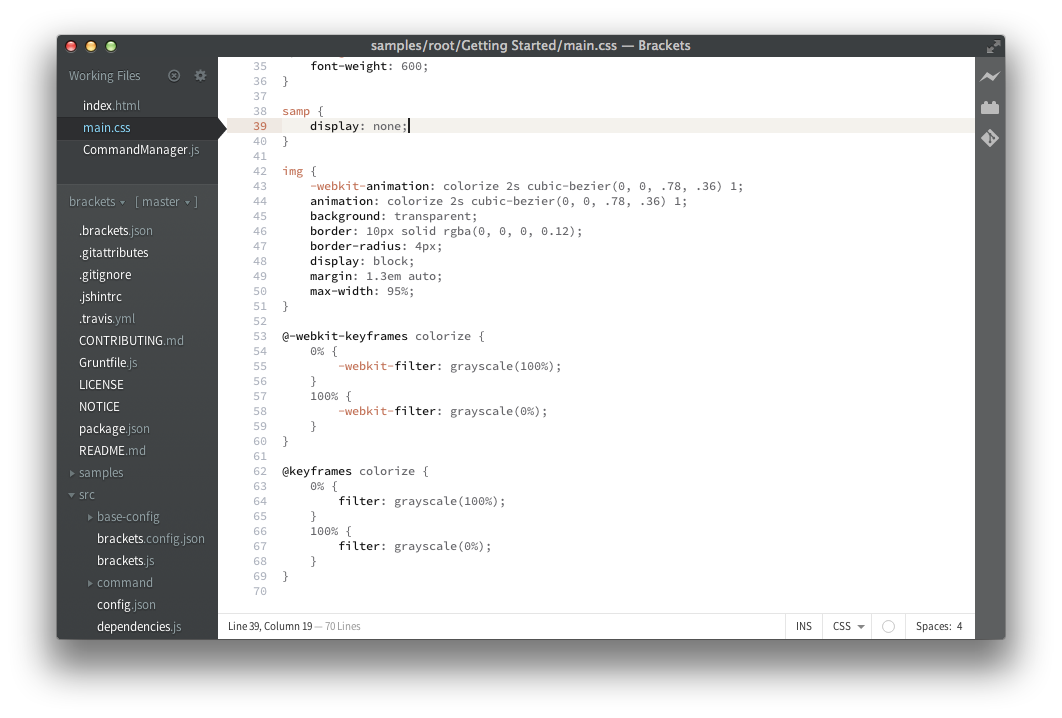
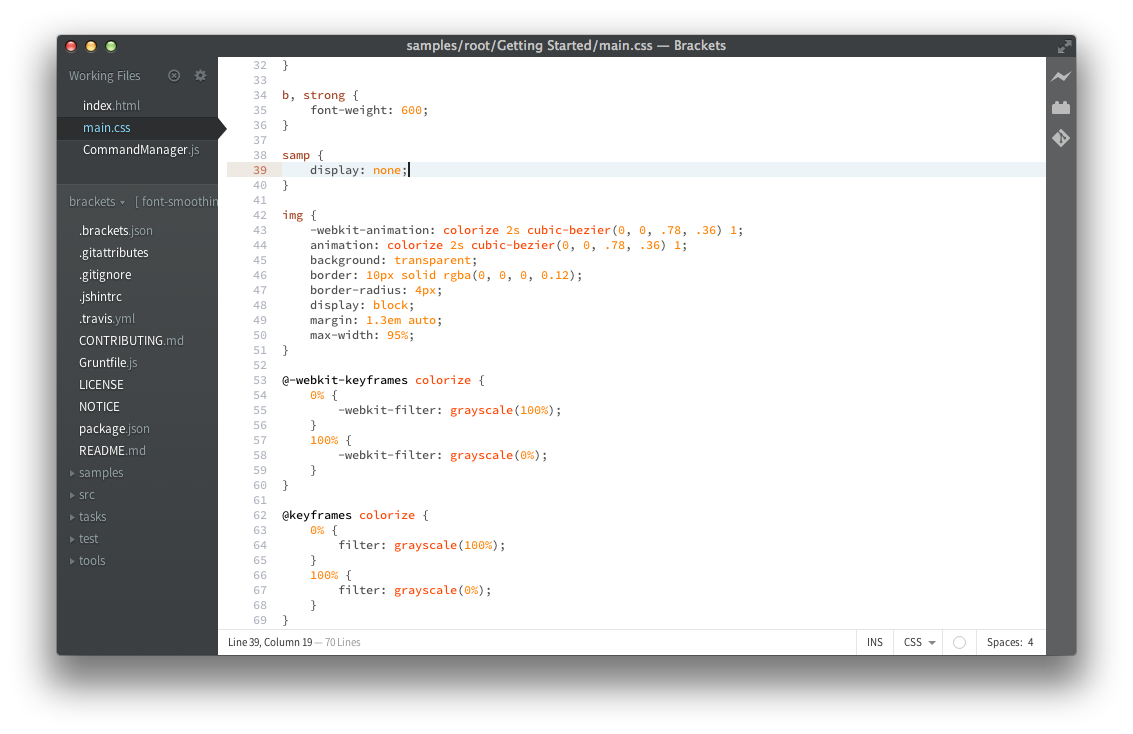
Tweaks.

diff --git a/dieterbamz.css b/dieterbamz.css
@@ -1,30 +1,34 @@
 /* SWATCHES ---------------------------------------------------------------------- */
 
+span.cm-bracket		{ color: #a3401f; }
 span.cm-builtin     { color: #a3401f; }
-span.cm-keyword		{ color: #a3401f; }
-span.cm-link		{ color: #a3401f; }
 span.cm-qualifier	{ color: #a3401f; }
-span.cm-string		{ color: #a3401f; }
-span.cm-string-2    { color: #a3401f; }
+span.cm-tag			{ color: #a3401f; }
 
-span.cm-attribute	{ color: #111111; }
-span.cm-def			{ color: #111111; }
-span.cm-header      { color: #111111; }
-span.cm-operator	{ color: #111111; }
-span.cm-property	{ color: #111111; }
+span.cm-attribute	{ color: #000000; }
+span.cm-def			{ color: #000000; }
+span.cm-header      { color: #000000; }
+span.cm-keyword		{ color: #000000; }
+span.cm-operator	{ color: #000000; }
 
-span.cm-atom		{ color: #656569; }
-span.cm-number		{ color: #656569; }
-span.cm-variable	{ color: #656569; }
-span.cm-variable-2	{ color: #656569; }
-span.cm-variable-3	{ color: #656569; }
+span.cm-meta		{ color: #4d4d4d; }
+span.cm-property	{ color: #4d4d4d; }
 
-span.cm-comment		{ color: #aeb3be; }
+span.cm-atom		{ color: #ff8000; }
+span.cm-number		{ color: #ff8000; }
+
+span.cm-variable	{ color: #ff4500; }
+span.cm-variable-2	{ color: #ff4500; }
+span.cm-variable-3	{ color: #ff4500; }
+
+span.cm-link		{ color: #0074b1; }
+span.cm-string		{ color: #0074b1; }
+span.cm-string-2    { color: #0074b1; }
+
+span.cm-comment		{ color: #9699a0; }
 span.cm-error		{ color: #ff0076; }
 
-span.cm-bracket		{ color: #c27156; }
-span.cm-meta		{ color: #c27156; }
-span.cm-tag			{ color: #c27156; }
+
 
 
 
@@ -34,7 +38,7 @@ span.cm-tag			{ color: #c27156; }
 .CodeMirror,
 .CodeMirror .CodeMirror-scroll {
 	background: #fff;
-	color: #656569;
+	color: #4d4d4d;
 }
 
 .CodeMirror-cursor {
@@ -63,13 +67,13 @@ span.cm-tag			{ color: #c27156; }
 
 .CodeMirror-matchingbracket {
     background: transparent !important;
-	border-bottom: 2px solid #c27156 !important;
+	border-bottom: 2px solid #ff8000 !important;
     color: #656569 !important;
 }
 
 .CodeMirror-matchingtag {
     background: transparent !important;
-	border-bottom: 2px solid #c27156 !important;
+	border-bottom: 2px solid #ff8000 !important;
 }
 
 /* Active Line */
@@ -79,7 +83,7 @@ span.cm-tag			{ color: #c27156; }
 }
 
 .CodeMirror-activeline-background {
-	background: #f4f2ed !important;
+	background: #edf4f7 !important;
 }
 
 .CodeMirror-focused .CodeMirror-activeline .CodeMirror-gutter-elt {
